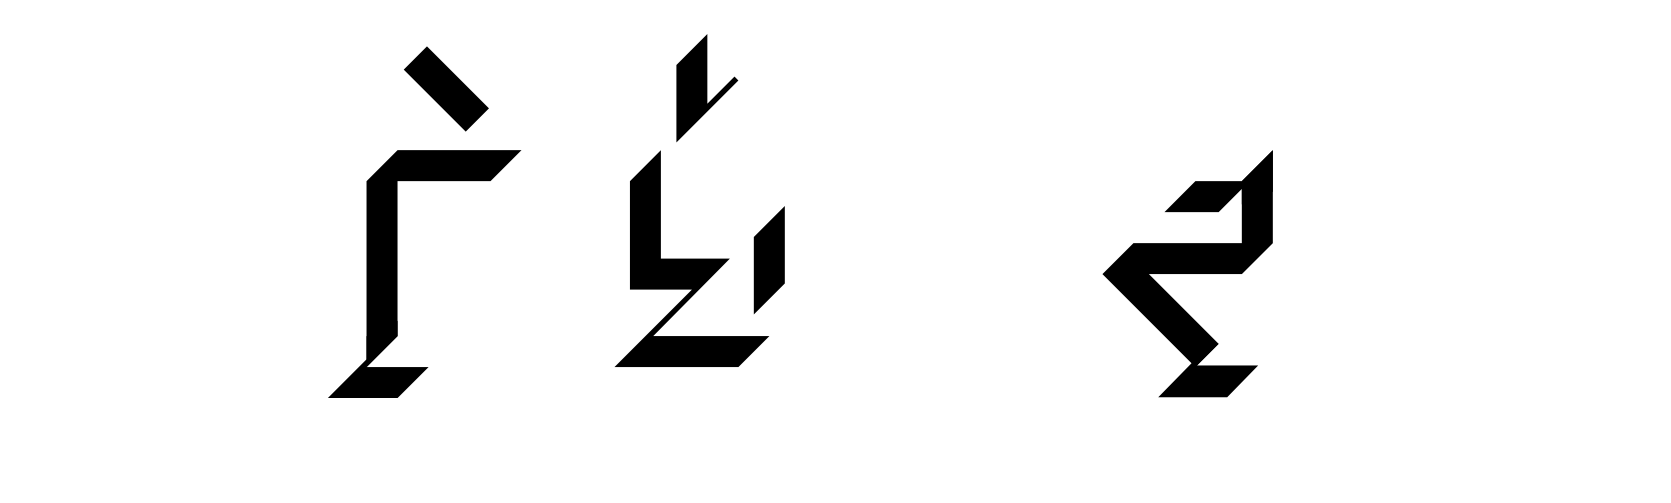
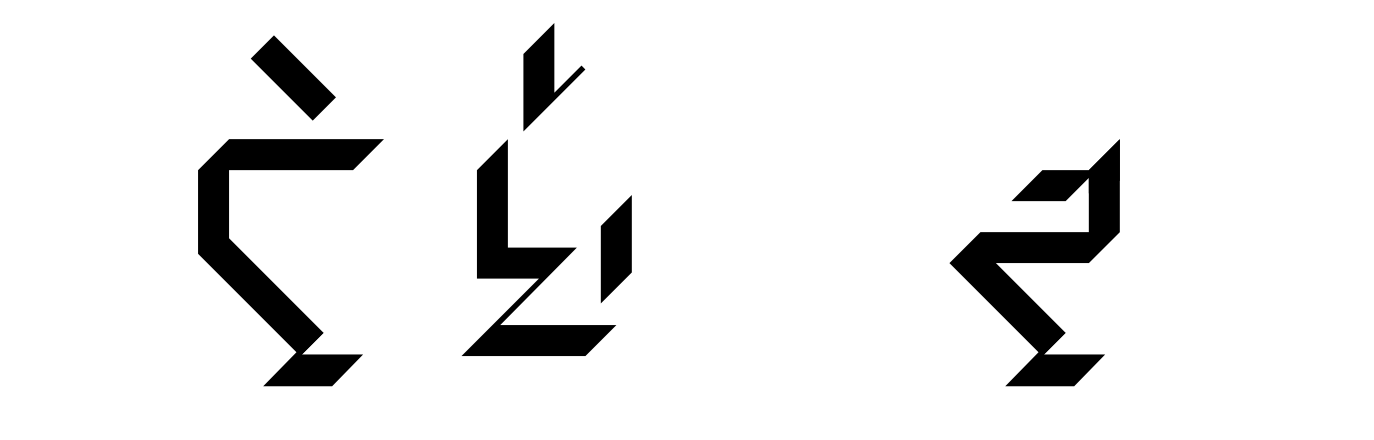
Improved documentation, fixed tertiary IRP aspect.

diff --git a/README.md b/README.md
@@ -1,4 +1,4 @@
 # Ithkuil Basic
-[Ithkuil](http://ithkuil.net) font using glyphs from Zachary Sakowitz's [generator](https://v8.zsnout.com/ithkuil/script). Numbers by Pan Kamil on the [Ithkuil Discord](https://reddit.com/r/Ithkuil/comments/7q5r2d/) server.
+Ithkuil font using glyphs from Zachary Sakowitz's [generator](https://v8.zsnout.com/ithkuil/script).
 
 ![ithkuil_basic_title](documentation/ithkuil_basic_title.png)
